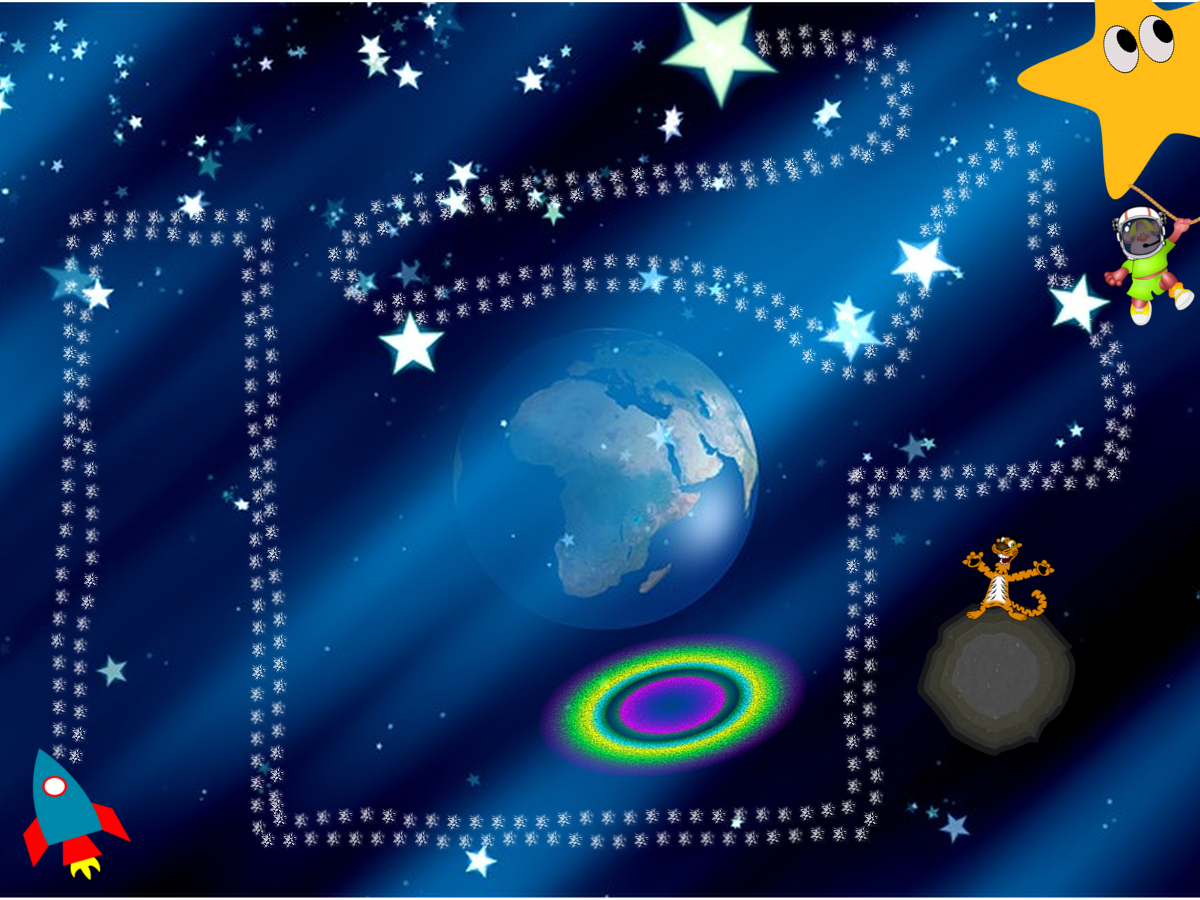
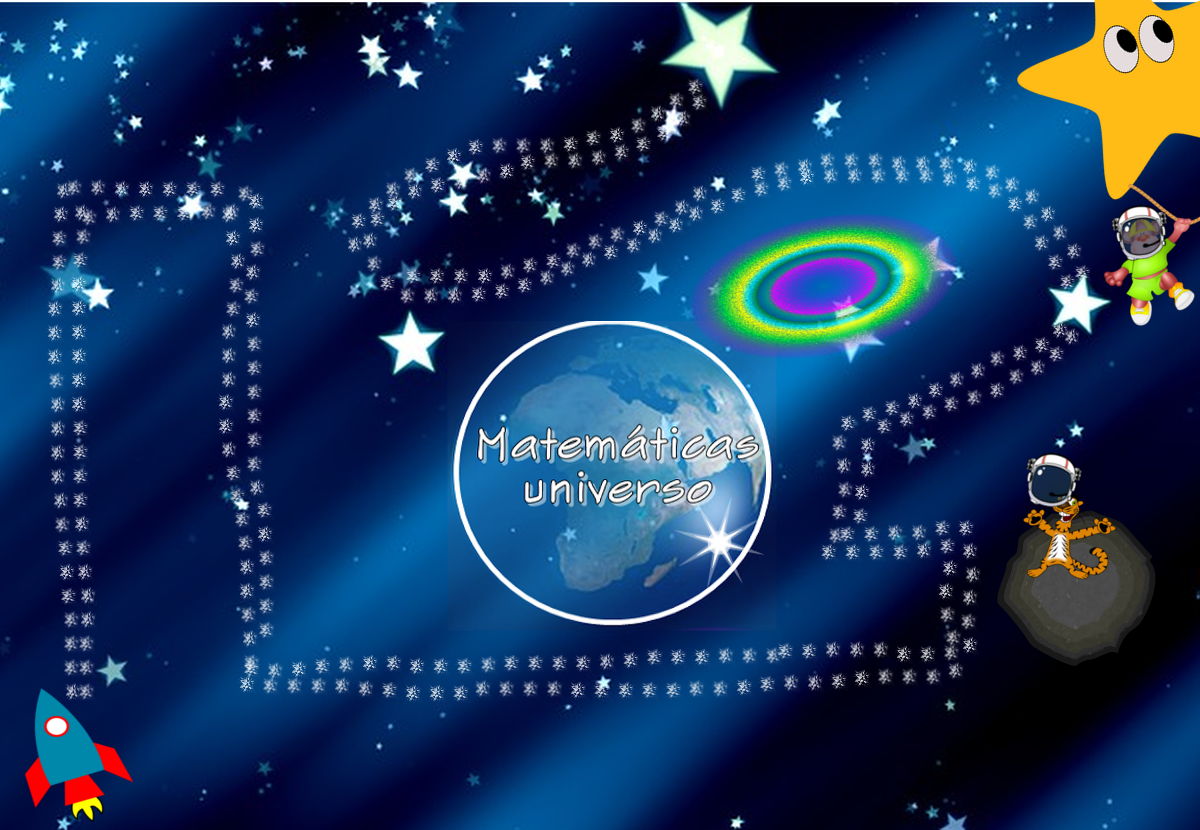
Fields for Level 2 created

diff --git a/index.html b/index.html
@@ -113,6 +113,62 @@ var circleData = [
   { "cx": 130, "cy": 560, "radius": 30, "color" : "blue", "fontcolor" : "white", "number" : 62},
   { "cx": 140, "cy": 630, "radius": 30, "color" : "snow", "fontcolor" : "black", "number" : 63}];
 
+//Datas for the second level
+var level2 = [
+  { "cx": 50, "cy": 770, "radius": 30, "color" : "snow", "fontcolor" : "black", "number" : 1 },
+  { "cx": 70, "cy": 660, "radius": 30, "color" : "mediumaquamarine", "fontcolor" : "black", "number" : 2}, 
+  { "cx": 70, "cy": 590, "radius": 30, "color" : "green", "fontcolor" : "white", "number" : 3},
+  { "cx": 70, "cy": 520, "radius": 30, "color" : "turquoise", "fontcolor" : "white", "number" : 4},
+  { "cx": 70, "cy": 450, "radius": 30, "color" : "turquoise", "fontcolor" : "white", "number" : 5},
+  { "cx": 70, "cy": 380, "radius": 30, "color" : "turquoise", "fontcolor" : "black", "number" : 6},
+  { "cx": 70, "cy": 310, "radius": 30, "color" : "turquoise", "fontcolor" : "black", "number" : 7},
+  { "cx": 70, "cy": 240, "radius": 30, "color" : "turquoise", "fontcolor" : "black", "number" : 8},
+  { "cx": 140, "cy": 210, "radius": 30, "color" : "turquoise", "fontcolor" : "white", "number" : 9},
+  { "cx": 210, "cy": 210, "radius": 30, "color" : "turquoise", "fontcolor" : "white", "number" :10},
+  { "cx": 230, "cy": 280, "radius": 30, "color" : "red", "fontcolor" : "white", "number" : 11},
+  { "cx": 240, "cy": 350, "radius": 30, "color" : "turquoise", "fontcolor" : "black", "number" : 12},
+  { "cx": 240, "cy": 420, "radius": 30, "color" : "turquoise", "fontcolor" : "white", "number" : 13},
+  { "cx": 240, "cy": 490, "radius": 30, "color" : "turquoise", "fontcolor" : "black", "number" : 14},
+  { "cx": 240, "cy": 570, "radius": 30, "color" : "turquoise", "fontcolor" : "white", "number" : 15},
+  { "cx": 240, "cy": 640, "radius": 30, "color" : "mediumaquamarine", "fontcolor" : "black", "number" : 16},
+  { "cx": 310, "cy": 670, "radius": 30, "color" : "skyblue", "fontcolor" : "black", "number" : 17},
+  { "cx": 380, "cy": 670, "radius": 30, "color" : "blue", "fontcolor" : "white", "number" : 18},
+  { "cx": 450, "cy": 670, "radius": 30, "color" : "mediumaquamarine", "fontcolor" : "black", "number" : 19},
+  { "cx": 520, "cy": 670, "radius": 30, "color" : "khaki", "fontcolor" : "black", "number" : 20},
+  { "cx": 590, "cy": 670, "radius": 30, "color" : "mediumaquamarine", "fontcolor" : "black", "number" : 21},
+  { "cx": 660, "cy": 670, "radius": 30, "color" : "mediumaquamarine", "fontcolor" : "black", "number" : 22},
+  { "cx": 730, "cy": 670, "radius": 30, "color" : "mediumaquamarine", "fontcolor" : "black", "number" : 22},
+  { "cx": 800, "cy": 670, "radius": 30, "color" : "blue", "fontcolor" : "white", "number" : 23},
+  { "cx": 870, "cy": 670, "radius": 30, "color" : "yellow", "fontcolor" : "black", "number" : 24},
+  { "cx": 950, "cy": 670, "radius": 30, "color" : "green", "fontcolor" : "white", "number" : 25},
+  { "cx": 950, "cy": 600, "radius": 30, "color" : "mediumaquamarine", "fontcolor" : "black", "number" : 26},
+  { "cx": 950, "cy": 530, "radius": 30, "color" : "red", "fontcolor" : "white", "number" : 27},
+  { "cx": 880, "cy": 530, "radius": 30, "color" : "orange", "fontcolor" : "black", "number" : 28},
+  { "cx": 810, "cy": 500, "radius": 30, "color" : "purple", "fontcolor" : "black", "number" : 29},
+  { "cx": 860, "cy": 430, "radius": 30, "color" : "yellow", "fontcolor" : "black", "number" : 30},
+  { "cx": 930, "cy": 400, "radius": 30, "color" : "blue", "fontcolor" : "white", "number" : 31},
+  { "cx": 1000, "cy": 350, "radius": 30, "color" : "mediumaquamarine", "fontcolor" : "black", "number" : 32},
+  { "cx": 1070, "cy": 300, "radius": 30, "color" : "lavender", "fontcolor" : "black", "number" : 33},
+  { "cx": 1070, "cy": 230, "radius": 30, "color" : "lavender", "fontcolor" : "black", "number" : 34},
+  { "cx": 1000, "cy": 200, "radius": 30, "color" : "red", "fontcolor" : "white", "number" : 35},
+  { "cx": 930, "cy": 180, "radius": 30, "color" : "gold", "fontcolor" : "black", "number" : 36},
+  { "cx": 860, "cy": 180, "radius": 30, "color" : "orange", "fontcolor" : "black", "number" : 37},
+  { "cx": 790, "cy": 160, "radius": 30, "color" : "skyblue", "fontcolor" : "black", "number" : 38},
+  { "cx": 720, "cy": 180, "radius": 30, "color" : "mediumaquamarine", "fontcolor" : "black", "number" : 39},
+  { "cx": 650, "cy": 220, "radius": 30, "color" : "midnightblue", "fontcolor" : "white", "number" : 40},
+  { "cx": 580, "cy": 240, "radius": 30, "color" : "yellow", "fontcolor" : "black", "number" : 41},
+  { "cx": 510, "cy": 260, "radius": 30, "color" : "orange", "fontcolor" : "black", "number" : 42},
+  { "cx": 440, "cy": 280, "radius": 30, "color" : "green", "fontcolor" : "white", "number" : 43},
+  { "cx": 370, "cy": 270, "radius": 30, "color" : "blue", "fontcolor" : "black", "number" : 44},
+  { "cx": 370, "cy": 200, "radius": 30, "color" : "red", "fontcolor" : "white", "number" : 45},
+  { "cx": 440, "cy": 150, "radius": 30, "color" : "midnightblue", "fontcolor" : "white", "number" : 46},
+  { "cx": 530, "cy": 150, "radius": 30, "color" : "orange", "fontcolor" : "white", "number" : 47},
+  { "cx": 600, "cy": 150, "radius": 30, "color" : "green", "fontcolor" : "white", "number" : 48},
+  { "cx": 670, "cy": 120, "radius": 30, "color" : "midnightblue", "fontcolor" : "black", "number" : 49},
+  { "cx": 720, "cy": 50, "radius": 30, "color" : "red", "fontcolor" : "white", "number" : 50},];
+
+circleData = level2;
+
 //Create the SVG Viewport
 var svgContainer = d3.select("body").append("svg").attr("id","maingamesvg")
                                      .attr("width",width)

diff --git a/css/activity.css b/css/activity.css
@@ -7,7 +7,7 @@
 }
 
 #maingamesvg{
-  background-image: url(../images/Background.png);
+  background-image: url(../images/Background-Level2.png);
   background-repeat: no-repeat;
   background-size: 100%;
   /*background-color:white;*/
